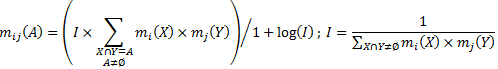
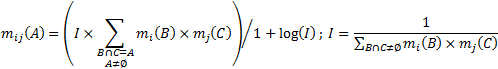
MS2DB++ - Updating combination strategy 3

diff --git a/help/strategy3.html b/help/strategy3.html
@@ -19,23 +19,29 @@
                         methods (for simplicity), the score of a disulfide bond pattern <i>A</i> is:
                         <ul>
                             <li>
-                                the summation of the product of the scores of bonding patterns <i>B</i> and <i>C</i>, respectively 
+                                the summation of the product of the scores of bonding patterns <i>B</i> and <i>C</i>, respectively
                                 obtained by disulfide bond determination methods <i>m<sub>1</sub></i> and <i>m<sub>2</sub></i>, when
-                                the intersection between <i>B</i> and <i>C</i> equals to <i>A</i> and bonding pattern <i>A</i> is not 
+                                the intersection between <i>B</i> and <i>C</i> equals to <i>A</i> and bonding pattern <i>A</i> is not
                                 an empty set.
+                            </li>
+                            <li>
+                                multiplied by
+                            </li>
+                            <li>
+                                <i>I</i>, which is 1 divided by the summation of the product of the scores of bonding patterns
+                                <i>B</i> and <i>C</i>, respectively obtained by disulfide bond determination methods
+                                <i>m<sub>1</sub></i> and <i>m<sub>2</sub></i>, when the intersection between <i>B</i> and <i>C</i>
+                                is not an empty set.
                             </li>
                             <li>
                                 divided by
                             </li>
                             <li>
-                                1 plus the logarithm (base 10) of 1 divided by  
-                                the summation of the product of the scores of bonding patterns <i>B</i> and <i>C</i>, respectively 
-                                obtained by disulfide bond determination methods <i>m<sub>1</sub></i> and <i>m<sub>2</sub></i>, when
-                                the intersection between <i>B</i> and <i>C</i> is not an empty set.
+                                1 plus the logarithm (base 10) of <i>I</i>.
                             </li>
                         </ul>
                         <p>
-                            The formula used to combine disulfide bonds scores according to rule 1 is presented below. 
+                            The formula used to combine disulfide bonds scores according to rule 1 is presented below.
                             This combination formula is commutative and associative; thus, other disulfide bond determination
                             methods (and their scores) can be easily added.
                         </p>

diff --git a/help.php b/help.php
@@ -177,13 +177,19 @@
                                         an empty set.
                                     </li>
                                     <li>
+                                        multiplied by
+                                    </li>
+                                    <li>
+                                        <i>I</i>, which is 1 divided by the summation of the product of the scores of bonding patterns
+                                        <i>B</i> and <i>C</i>, respectively obtained by disulfide bond determination methods
+                                        <i>m<sub>1</sub></i> and <i>m<sub>2</sub></i>, when the intersection between <i>B</i> and <i>C</i>
+                                        is not an empty set.
+                                    </li>
+                                    <li>
                                         divided by
                                     </li>
                                     <li>
-                                        1 plus the logarithm (base 10) of 1 divided by  
-                                        the summation of the product of the scores of bonding patterns <i>B</i> and <i>C</i>, respectively 
-                                        obtained by disulfide bond determination methods <i>m<sub>1</sub></i> and <i>m<sub>2</sub></i>, when
-                                        the intersection between <i>B</i> and <i>C</i> is not an empty set.
+                                        1 plus the logarithm (base 10) of <i>I</i>.
                                     </li>
                                 </ul>
                                 <p>

diff --git a/integration.php b/integration.php
@@ -452,21 +452,21 @@
                         }                        
                     }
                     if(isset($theta[$key])){
-                        $theta[$key]['score'] += $MergeSet[$i]['score'];
+                        $theta[$key]['score'] += number_format(($coef*$MergeSet[$i]['score'])/$totalscore,4);
                     }
                     else{
                         $theta[$key]['bonds'] = $MergeSet[$i]['bonds'];
-                        $theta[$key]['score'] = $MergeSet[$i]['score'];
+                        $theta[$key]['score'] = number_format(($coef*$MergeSet[$i]['score'])/$totalscore,4);
                     }
-                    $totaltheta += $MergeSet[$i]['score'];
-                    $totaltheta = number_format(($coef*$totaltheta)/$totalscore,4);
+                    
+                    $totaltheta += number_format(($coef*$MergeSet[$i]['score'])/$totalscore,4);
                 }                
             }                        
         }
-        
+                
         if(count($theta) > 0){
             $bonds['THETA'] = $theta;
-            $bonds['THETA']['TOTAL'] = $coef*$totaltheta;
+            $bonds['THETA']['TOTAL'] = $totaltheta;
         }
         
         return $bonds;
